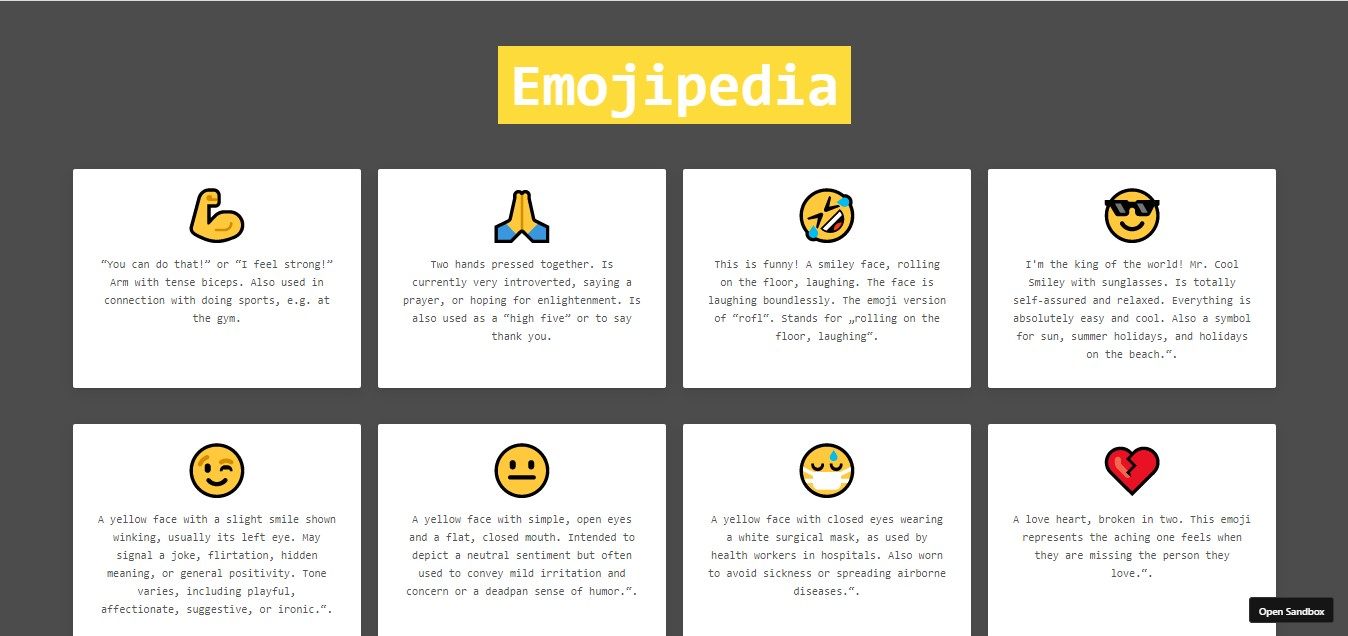
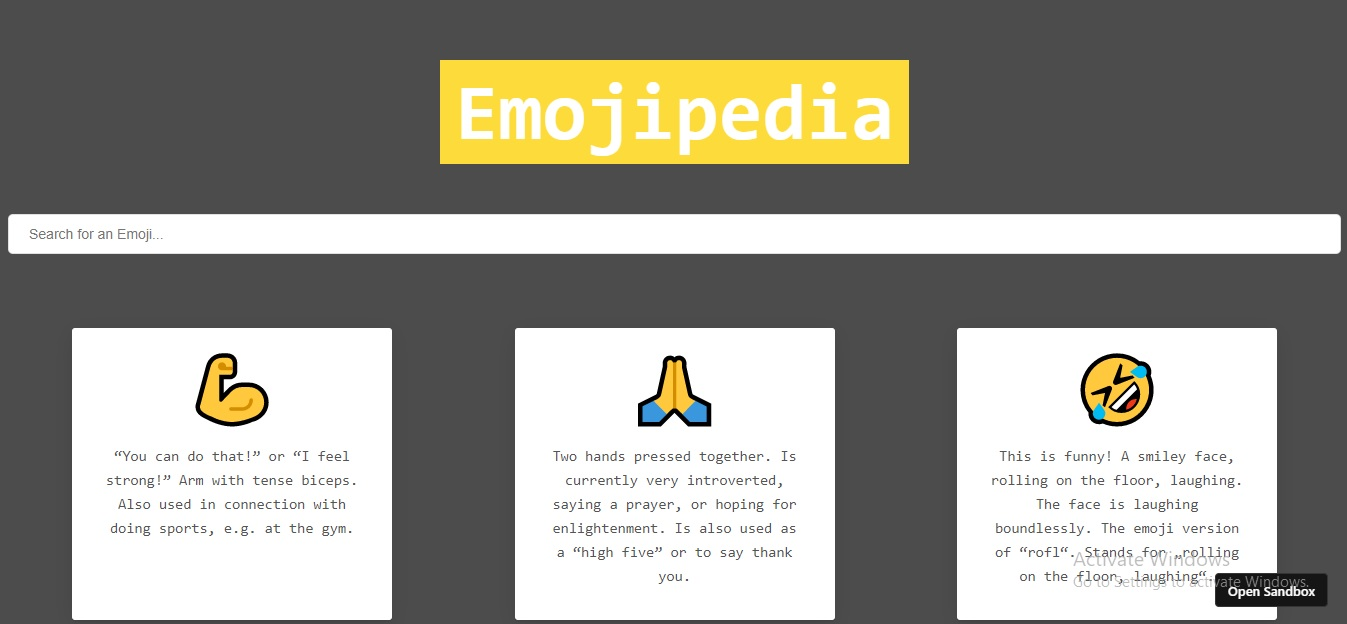
Added new website screenshot with search option

diff --git a/README.md b/README.md
@@ -19,7 +19,11 @@ Yeah, us too. But with Emojipedia, you get a brief description about different e
 
 1. Fork this repository. 📌
 2. Clone it to your local computer using `git clone` command. 💻🖥
-3. Use `git remote` add upstream https://github.com/RishabhDevbanshi/Emojipedia.git and then `git pull upstream master` to keep your local repo up-to-date with this repository. 🧮
+3. Use 
+  `git remote add upstream https://github.com/RishabhDevbanshi/Emojipedia.git` 
+  and then 
+  `git pull upstream master` 
+  to keep your local repo up-to-date with this repository. 🧮
 4. Make required changes and improvements. 🧠
 5. Make a pull request. ✌
 
